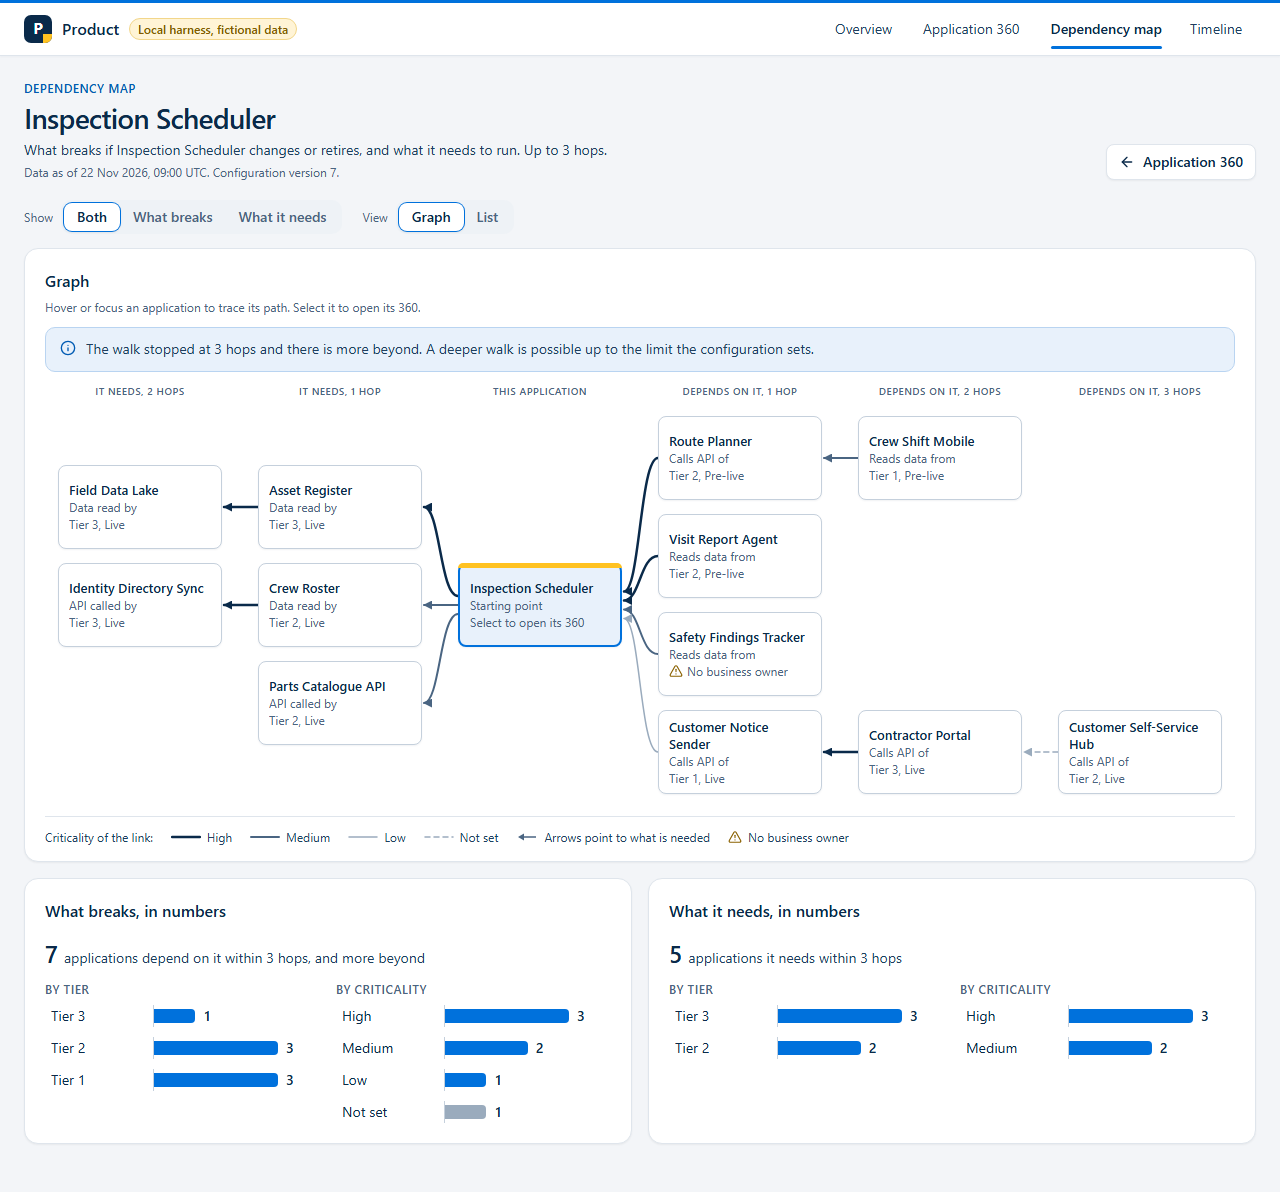
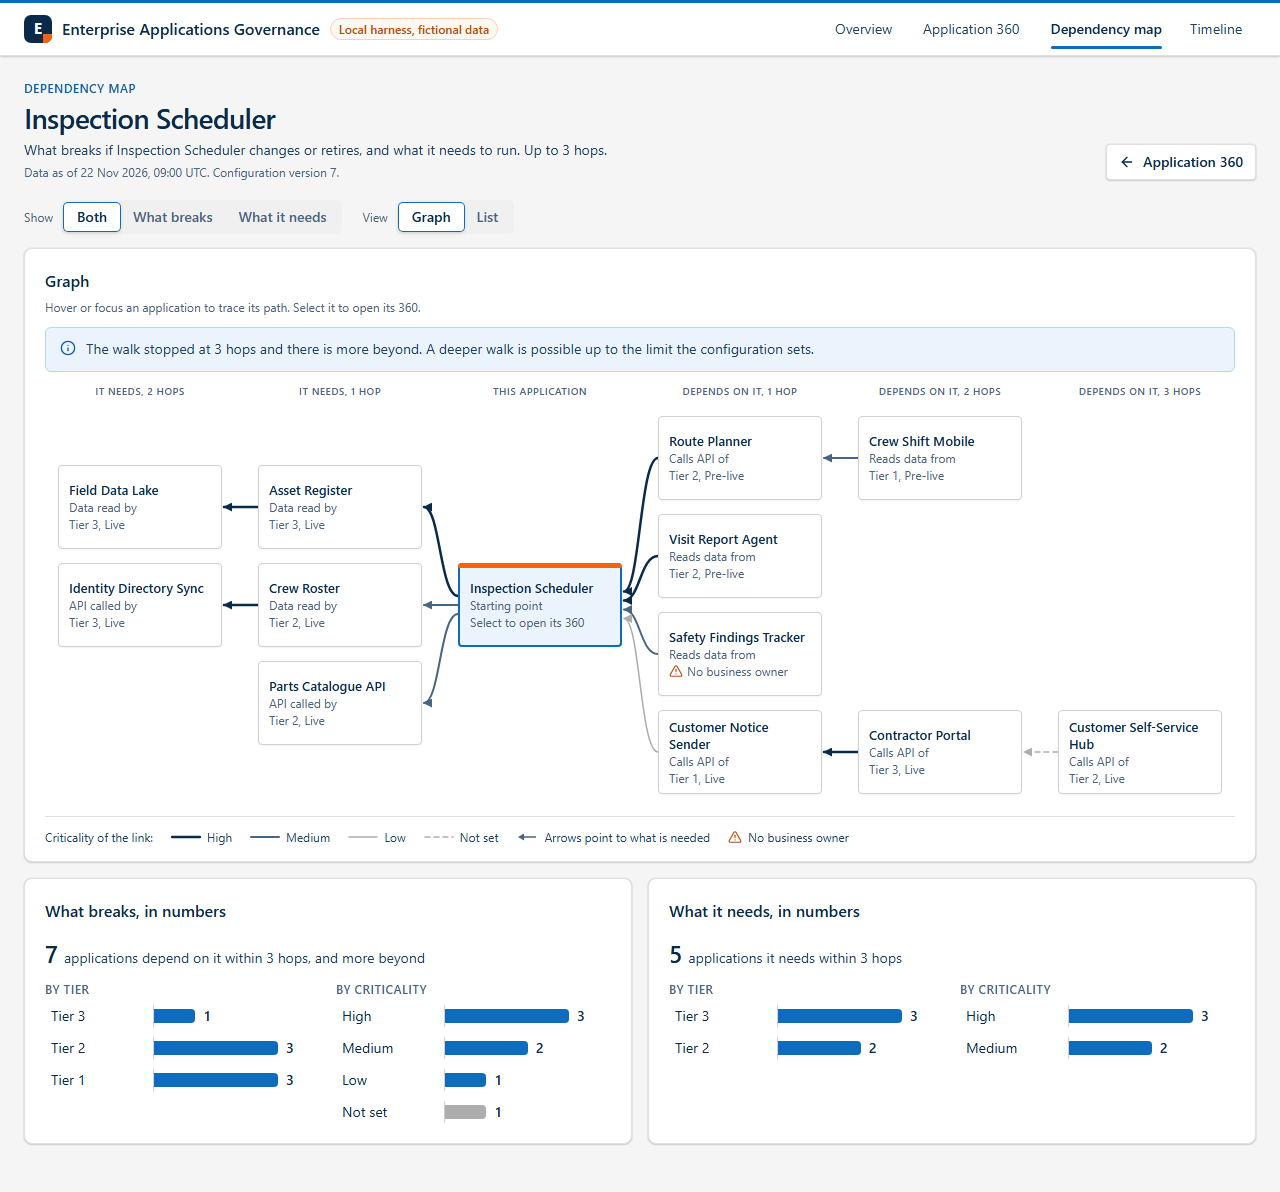
Fluent 2 theme (D-35) and the product name in the header
The theme tokens follow Fluent 2: 4 px corners on controls and 8 px on cards, layered
shadows, neutral grays, brand blue 0F6CBD, Fluent status colors and orange for
attention, with navy text, light only. The chart colors follow. The header and page
titles show Enterprise Applications Governance. Accessibility check and screenshots
pass at 1280 px and 390 px. Decision record D-35; D-32 amended.

diff --git a/src/ui/harness/src/styles/globals.css b/src/ui/harness/src/styles/globals.css
@@ -1,6 +1,7 @@
-/* The Academy palette as shadcn/ui theme tokens. Light only: there is no dark theme and no theme switch, on purpose
-   (D-18). Navy 0A2A4A for text and lines, blue 0071DC for brand, gold FFC221 as the accent. Fills: white, light blue
-   E8F1FB, light gold FFF4D6, light gray F3F5F8 for the page.
+/* The theme tokens: Microsoft's Fluent 2 shape and colors on shadcn/ui (D-35). Light only: there is no dark theme and no
+   theme switch, on purpose (D-18). Corners 2, 4, 6 and 8 px (Fluent's small to extra large), Fluent's layered shadows
+   and neutral grays, Microsoft brand blue 0F6CBD, Fluent's status colors, orange F7630C for attention. Text stays navy
+   0A2A4A (light only, no black). The product keeps its own name and mark: it is not a Microsoft product.
    The CSS is static (built by Tailwind at build time), so the page needs no inline styles from a runtime. */
 @import "tailwindcss";
 @import "tw-animate-css";
@@ -20,68 +21,75 @@
   color-scheme: light;
   --radius: 0.625rem;
 
-  --background: #f3f5f8;
+  --background: #f5f5f5;
   --foreground: #0a2a4a;
   --card: #ffffff;
   --card-foreground: #0a2a4a;
   --popover: #ffffff;
   --popover-foreground: #0a2a4a;
-  --primary: #0071dc;
+  --primary: #0f6cbd;
   --primary-foreground: #ffffff;
-  --secondary: #e8f1fb;
+  --secondary: #ebf3fc;
   --secondary-foreground: #0a2a4a;
-  --muted: #eef2f6;
+  --muted: #f0f0f0;
   --muted-foreground: #4a6582;
-  --accent: #e8f1fb;
+  --accent: #ebf3fc;
   --accent-foreground: #0a2a4a;
   --destructive: #b10e1c;
-  --border: #dfe5ec;
-  --input: #c5d0dc;
-  --ring: #0071dc;
+  --border: #e0e0e0;
+  --input: #d1d1d1;
+  --ring: #0f6cbd;
 
-  /* Academy extras */
+  /* Product extras: navy text shades, brand dark, attention (orange in Fluent 2, the 'gold' tokens), lines */
   --navy: #0a2a4a;
   --navy-2: #1f3f5f;
   --navy-3: #4a6582;
   --navy-4: #6a8199;
-  --brand-dark: #005bb3;
-  --gold: #ffc221;
-  --gold-strong: #8a6100;
-  --gold-soft: #fff4d6;
-  --line: #dfe5ec;
-  --line-strong: #c5d0dc;
-  --bar-muted: #9aabbd;
+  --brand-dark: #115ea3;
+  --gold: #f7630c;
+  --gold-strong: #bc4b09;
+  --gold-soft: #fff9f5;
+  --line: #e0e0e0;
+  --line-strong: #d1d1d1;
+  --bar-muted: #adadad;
 
   /* Status tones. Each text color on its soft fill passes WCAG AA (4.5:1). Status is never shown by color alone. */
-  --success: #0e700e;
-  --success-soft: #e7f4e4;
-  --success-line: #b7dbb0;
-  --warning: #835c00;
-  --warning-soft: #fff4d6;
-  --warning-line: #f2d68a;
+  --success: #107c10;
+  --success-soft: #f1faf1;
+  --success-line: #9fd89f;
+  --warning: #bc4b09;
+  --warning-soft: #fff9f5;
+  --warning-line: #fdcfb4;
   --danger: #b10e1c;
-  --danger-soft: #fdecec;
-  --danger-line: #f3b9be;
-  --info: #005bb3;
-  --info-soft: #e8f1fb;
-  --info-line: #b9d4f1;
-  --subtle-soft: #eef2f6;
-  --subtle-line: #dfe5ec;
+  --danger-soft: #fdf3f4;
+  --danger-line: #eeacb2;
+  --info: #115ea3;
+  --info-soft: #ebf3fc;
+  --info-line: #b4d6fa;
+  --subtle-soft: #f5f5f5;
+  --subtle-line: #e0e0e0;
 
-  --chart-1: #0071dc;
-  --chart-2: #ffc221;
+  --chart-1: #0f6cbd;
+  --chart-2: #f7630c;
   --chart-3: #0a2a4a;
-  --chart-4: #6aa8ec;
-  --chart-5: #9aabbd;
+  --chart-4: #62abf5;
+  --chart-5: #adadad;
 }
 
 @theme inline {
   --font-sans: 'Segoe UI', 'Segoe UI Web (West European)', -apple-system, BlinkMacSystemFont, Roboto, 'Helvetica Neue', sans-serif;
 
-  --radius-sm: calc(var(--radius) - 4px);
-  --radius-md: calc(var(--radius) - 2px);
-  --radius-lg: var(--radius);
-  --radius-xl: calc(var(--radius) + 4px);
+  /* Fluent 2 corner scale: small 2 px, medium 4 px (controls, badges), large 6 px, extra large 8 px (cards). */
+  --radius-sm: 2px;
+  --radius-md: 4px;
+  --radius-lg: 6px;
+  --radius-xl: 8px;
+
+  /* Fluent 2 layered shadows (shadow2, shadow4, shadow8, shadow16). */
+  --shadow-xs: 0 0 2px rgba(0, 0, 0, 0.12), 0 1px 2px rgba(0, 0, 0, 0.14);
+  --shadow-sm: 0 0 2px rgba(0, 0, 0, 0.12), 0 2px 4px rgba(0, 0, 0, 0.14);
+  --shadow-md: 0 0 2px rgba(0, 0, 0, 0.12), 0 4px 8px rgba(0, 0, 0, 0.14);
+  --shadow-lg: 0 0 2px rgba(0, 0, 0, 0.12), 0 8px 16px rgba(0, 0, 0, 0.14);
 
   --color-background: var(--background);
   --color-foreground: var(--foreground);

diff --git a/src/ui/harness/src/app/AppShell.tsx b/src/ui/harness/src/app/AppShell.tsx
@@ -148,7 +148,7 @@ function SignedIn({ auth, api, base, demo }: { auth: AppAuth; api: ApiClient; ba
 
   // The page title, and focus on the new page for keyboard and screen reader users (not on the first load).
   useEffect(() => {
-    document.title = `${routeTitle(route)} | Product`;
+    document.title = `${routeTitle(route)} | Enterprise Applications Governance`;
     const previous = shownLocation.current;
     shownLocation.current = locationKey;
     if (previous !== null && previous !== locationKey) mainRef.current?.focus({ preventScroll: true });
@@ -194,29 +194,29 @@ function SignedIn({ auth, api, base, demo }: { auth: AppAuth; api: ApiClient; ba
         >
           Skip to content
         </a>
-        <header className="sticky top-0 z-10 border-b border-line bg-card shadow-[0_1px_2px_rgba(10,42,74,0.04)]" ref={headerRef}>
+        <header className="sticky top-0 z-10 border-b border-line bg-card shadow-xs" ref={headerRef}>
           <div className="h-[3px] bg-primary" />
           <div className={cn(frame, 'flex min-h-[52px] items-center gap-x-5 narrow:min-h-0 narrow:flex-wrap narrow:gap-x-3 narrow:gap-y-1 narrow:pt-2')}>
             <a
-              className="flex shrink-0 items-center gap-x-2.5 rounded-md text-navy no-underline focus-visible:outline-2 focus-visible:outline-offset-2 focus-visible:outline-ring"
+              className="flex min-w-0 items-center gap-x-2.5 rounded-md text-navy no-underline focus-visible:outline-2 focus-visible:outline-offset-2 focus-visible:outline-ring"
               href={appHref({ page: 'overview' }, base)}
-              aria-label="Product, portfolio overview"
+              aria-label="Enterprise Applications Governance, portfolio overview"
             >
               <span
                 className="relative grid size-7 shrink-0 place-items-center overflow-hidden rounded-[7px] bg-navy text-[15px] font-bold text-white after:absolute after:right-0 after:bottom-0 after:size-[9px] after:bg-gold"
                 aria-hidden
               >
-                P
+                E
               </span>
-              <span className="text-base font-semibold text-navy">Product</span>
+              <span className="truncate text-base font-semibold text-navy narrow:text-sm">Enterprise Applications Governance</span>
             </a>
             {demo && (
-              <Badge variant="warning" className="rounded-full px-2 font-medium">
+              <Badge variant="warning" className="shrink-0 rounded-full px-2 font-medium">
                 {narrow ? 'Demo data' : 'Demo, fictional data'}
               </Badge>
             )}
             {auth.mode === 'development' && (
-              <Badge variant="warning" className="rounded-full px-2 font-medium">
+              <Badge variant="warning" className="shrink-0 rounded-full px-2 font-medium">
                 {narrow ? 'Development sign-in' : 'Development sign-in, fictional persona'}
               </Badge>
             )}

diff --git a/src/ui/harness/src/pages/Timeline.tsx b/src/ui/harness/src/pages/Timeline.tsx
@@ -26,13 +26,13 @@ const windowTone = {
   authorized: 'bg-primary',
   pending: 'border-2 border-primary bg-card',
   draft: 'border-2 border-bar-muted bg-card',
-  closed: 'bg-[#a9c1dc]',
+  closed: 'bg-[#b4d6fa]',
 };
-const emergencyRing = 'ring-2 ring-[#c4314b]';
+const emergencyRing = 'ring-2 ring-[#c50f1f]';
 const markerTone = {
   succeeded: 'bg-navy',
-  partly: 'bg-[#c98a00]',
-  failed: 'bg-[#c4314b]',
+  partly: 'bg-[#f7630c]',
+  failed: 'bg-[#c50f1f]',
   other: 'bg-bar-muted',
 };
 const flaggedRing = 'ring-3 ring-gold';
@@ -212,7 +212,7 @@ function Chart(props: { changes: ScheduledChange[]; deployments: DeploymentItem[
     const group = lane.key === 'none' ? 'No target yet' : props.stages.label(lane.stageKey);
     if (group !== lastGroup) {
       rows.push(
-        <div key={`g-${group}`} className="col-span-full border-b border-line bg-[#fafbfd] pt-1.5 pb-1 pl-0.5 text-[10px] font-semibold tracking-[0.06em] text-navy-3 uppercase">
+        <div key={`g-${group}`} className="col-span-full border-b border-line bg-[#fafafa] pt-1.5 pb-1 pl-0.5 text-[10px] font-semibold tracking-[0.06em] text-navy-3 uppercase">
           {group}
         </div>,
       );
@@ -229,8 +229,8 @@ function Chart(props: { changes: ScheduledChange[]; deployments: DeploymentItem[
     );
     rows.push(
       <div key={`r-${lane.key}`} className="relative h-[50px] border-b border-line">
-        <div className="absolute inset-y-0 left-0 bg-[#f5f7fa]" style={{ width: `${todayPct}%` }} />
-        {ticks.map(t => <div key={t} className="absolute inset-y-0 w-px bg-[#e7ecf2]" style={{ left: `${dayPct(t)}%` }} />)}
+        <div className="absolute inset-y-0 left-0 bg-[#f5f5f5]" style={{ width: `${todayPct}%` }} />
+        {ticks.map(t => <div key={t} className="absolute inset-y-0 w-px bg-[#ebebeb]" style={{ left: `${dayPct(t)}%` }} />)}
         <div className="absolute inset-y-0 z-[1] -ml-px w-0.5 bg-gold" style={{ left: `${todayPct}%` }} />
         {laneChanges.map((c, i) => {
           const x1 = pct(c.windowStart!);

diff --git a/src/ui/harness/src/App.tsx b/src/ui/harness/src/App.tsx
@@ -90,18 +90,21 @@ export function App() {
   return (
     <ToolClientContext.Provider value={fixtureClient}>
       <HostContext.Provider value={host}>
-        <div className="sticky top-0 z-10 border-b border-line bg-card shadow-[0_1px_2px_rgba(10,42,74,0.04)]">
+        <div className="sticky top-0 z-10 border-b border-line bg-card shadow-xs">
           <div className="h-[3px] bg-primary" />
           <div className="mx-auto flex min-h-[52px] max-w-[1280px] items-center gap-x-6 px-6 narrow:min-h-0 narrow:flex-wrap narrow:gap-x-3 narrow:gap-y-1 narrow:px-4 narrow:pt-2">
-            <div className="flex shrink-0 items-center gap-x-2.5">
+            <div className="flex min-w-0 items-center gap-x-2.5">
               <span
                 className="relative grid size-7 shrink-0 place-items-center overflow-hidden rounded-[7px] bg-navy text-[15px] font-bold text-white after:absolute after:right-0 after:bottom-0 after:size-[9px] after:bg-gold"
                 aria-hidden
               >
-                P
+                E
               </span>
-              <span className="text-base font-semibold text-navy">Product</span>
-              <Badge variant="warning" className="rounded-full px-2 font-medium">Local harness, fictional data</Badge>
+              <span className="truncate text-base font-semibold text-navy narrow:text-sm">Enterprise Applications Governance</span>
+              <Badge variant="warning" className="shrink-0 rounded-full px-2 font-medium">
+                <span className="narrow:hidden">Local harness, fictional data</span>
+                <span className="hidden narrow:inline">Fictional data</span>
+              </Badge>
             </div>
             <nav className="ml-auto narrow:-ml-2.5 narrow:w-[calc(100%+20px)]" aria-label="Pages">
               <ul className="m-0 flex list-none gap-1 p-0 narrow:gap-0">

diff --git a/src/ui/harness/src/components/blocks.tsx b/src/ui/harness/src/components/blocks.tsx
@@ -1,5 +1,5 @@
 // Shared building blocks for the four pages: panel, status badge, KPI tile, bar list, page header, links and text
-// helpers. Built from the shadcn/ui primitives in ./ui and Tailwind classes on the Academy tokens (styles/globals.css).
+// helpers. Built from the shadcn/ui primitives in ./ui and Tailwind classes on the theme tokens (styles/globals.css).
 import { CircleAlert, CircleCheck, Clock, EyeOff, Info, TriangleAlert } from 'lucide-react';
 import { useSyncExternalStore, type ComponentProps, type CSSProperties, type ReactElement, type ReactNode } from 'react';
 import type { CouldNotReadItem, Envelope, Failure, StatusValue, Success, Warning } from '../data/contracts';
@@ -225,7 +225,7 @@ export function KpiTile(props: { label: string; value: number | null; caption: s
       type="button"
       className={cn(
         'relative flex min-w-0 cursor-pointer flex-col gap-0.5 overflow-hidden rounded-xl border bg-card py-3.5 pr-4 pl-[18px] text-left text-card-foreground shadow-xs transition-colors',
-        'hover:border-line-strong hover:bg-[#fbfcfe] focus-visible:outline-2 focus-visible:outline-offset-2 focus-visible:outline-ring',
+        'hover:border-line-strong hover:bg-[#fafafa] focus-visible:outline-2 focus-visible:outline-offset-2 focus-visible:outline-ring',
         props.attention && 'before:absolute before:inset-y-0 before:left-0 before:w-1 before:bg-gold',
         props.className,
       )}

diff --git a/src/ui/harness/src/theme.ts b/src/ui/harness/src/theme.ts
@@ -1,20 +1,20 @@
-// The Academy palette for code that needs a color as a value (SVG fills and strokes in the dependency map and the
-// timeline chart). Everything else uses the Tailwind tokens in styles/globals.css, which hold the same colors.
+// The theme colors (Fluent 2, D-35) for code that needs a color as a value (SVG fills and strokes in the dependency map and
+// the timeline chart). Everything else uses the Tailwind tokens in styles/globals.css, which hold the same colors.
 // Light only: there is no dark theme, on purpose (D-18).
 export const palette = {
   navy: '#0a2a4a',
   navy2: '#1f3f5f',
   navy3: '#4a6582',
   navy4: '#6a8199',
-  blue: '#0071dc',
-  blueDark: '#005bb3',
-  gold: '#ffc221',
-  goldDark: '#8a6100',
+  blue: '#0f6cbd',
+  blueDark: '#115ea3',
+  gold: '#f7630c',
+  goldDark: '#bc4b09',
   white: '#ffffff',
-  lightBlue: '#e8f1fb',
-  lightGold: '#fff4d6',
-  lightGrey: '#f3f5f8',
-  line: '#dfe5ec',
-  lineStrong: '#c5d0dc',
-  muted: '#9aabbd',
+  lightBlue: '#ebf3fc',
+  lightGold: '#fff9f5',
+  lightGrey: '#f5f5f5',
+  line: '#e0e0e0',
+  lineStrong: '#d1d1d1',
+  muted: '#adadad',
 } as const;

diff --git a/src/ui/harness/src/pages/Application360.tsx b/src/ui/harness/src/pages/Application360.tsx
@@ -328,7 +328,7 @@ function DependencySummary({ card, mapHref }: { card: ApplicationCard; mapHref: 
     />
   );
   const statClass =
-    'flex cursor-pointer flex-col rounded-lg bg-secondary px-3 py-2.5 text-left text-inherit no-underline transition-colors hover:bg-[#dcebfa] focus-visible:outline-2 focus-visible:outline-offset-2 focus-visible:outline-ring';
+    'flex cursor-pointer flex-col rounded-lg bg-secondary px-3 py-2.5 text-left text-inherit no-underline transition-colors hover:bg-[#cfe4fa] focus-visible:outline-2 focus-visible:outline-offset-2 focus-visible:outline-ring';
   return (
     <>
       <div className="grid grid-cols-2 gap-2.5">
@@ -366,7 +366,7 @@ function initials(name: string): string {
   return (first + last).toUpperCase();
 }
 
-// A stable tint per name, so the same person keeps the same color on every render. Academy tints only; the color
+// A stable tint per name, so the same person keeps the same color on every render. Theme tints only; the color
 // carries no meaning.
 const avatarTints = [
   'bg-info-soft text-info',

diff --git a/src/ui/harness/src/pages/DependencyMap.tsx b/src/ui/harness/src/pages/DependencyMap.tsx
@@ -301,7 +301,7 @@ function GraphBody(props: { show: Show; rootId: string; rootName: string; left: 
                 href={href}
                 className={cn(
                   'absolute flex flex-col justify-center gap-y-px rounded-md border border-line-strong bg-card px-2.5 py-1.5 text-navy no-underline shadow-[0_1px_2px_rgba(10,42,74,0.06)] transition-[opacity,border-color,box-shadow] duration-120',
-                  'hover:border-primary hover:shadow-[0_2px_6px_rgba(10,42,74,0.12)] focus-visible:outline-2 focus-visible:outline-offset-2 focus-visible:outline-ring',
+                  'hover:border-primary hover:shadow-md focus-visible:outline-2 focus-visible:outline-offset-2 focus-visible:outline-ring',
                   // The application itself: light blue with a gold bar along the top.
                   isRoot && 'border-2 border-primary bg-secondary before:absolute before:-inset-x-0.5 before:-top-0.5 before:h-[5px] before:rounded-t-md before:bg-gold',
                   focus !== null && !lit.has(p.key) && 'opacity-38',

diff --git a/src/ui/harness/src/app/SignIn.tsx b/src/ui/harness/src/app/SignIn.tsx
@@ -30,7 +30,7 @@ function Problem({ text }: { text: string | null }) {
 
 export function EntraSignIn({ auth }: { auth: MsalAuth }) {
   const [busy, setBusy] = useState(false);
-  useEffect(() => { document.title = 'Sign in | Product'; }, []);
+  useEffect(() => { document.title = 'Sign in | Enterprise Applications Governance'; }, []);
   return (
     <main className={wrap} id="main">
       <Problem text={auth.problem()} />
@@ -56,7 +56,7 @@ export function DevSignIn({ auth }: { auth: DevAuth }) {
   const legendId = useId();
   const groupName = useId();
   const [choice, setChoice] = useState<string>(auth.personas[0]?.name ?? '');
-  useEffect(() => { document.title = 'Development sign-in | Product'; }, []);
+  useEffect(() => { document.title = 'Development sign-in | Enterprise Applications Governance'; }, []);
   return (
     <main className={wrap} id="main">
       <Problem text={auth.problem()} />

diff --git a/src/ui/harness/vite.config.ts b/src/ui/harness/vite.config.ts
@@ -30,7 +30,7 @@ function entryFor(app: boolean): Plugin {
         // a same-origin file (Vite copies it into assets/ with a content hash).
         return html
           .replace('./src/main.tsx', './src/app/main.tsx')
-          .replace('<title>Product page harness</title>', '<title>Product</title>')
+          .replace('<title>Enterprise Applications Governance: page harness</title>', '<title>Enterprise Applications Governance</title>')
           .replace('<link rel="icon" href="data:," />', '<link rel="icon" type="image/svg+xml" href="./src/app/favicon.svg" />');
       },
     },

diff --git a/src/ui/harness/index.html b/src/ui/harness/index.html
@@ -5,7 +5,7 @@
     <meta name="viewport" content="width=device-width, initial-scale=1" />
     <meta name="color-scheme" content="light" />
     <link rel="icon" href="data:," />
-    <title>Product page harness</title>
+    <title>Enterprise Applications Governance: page harness</title>
   </head>
   <body>
     <div id="root"></div>

diff --git a/docs/build-log/README.md b/docs/build-log/README.md
@@ -102,6 +102,7 @@ AI sessions drafted, built and checked the work. The author made every decision.
 | Monday 5:06 AM | Commit `cffb7da` adds the web app with its four read-only pages on the product's own API, the approval runner's routes with a Power Automate flow template, and directory reads on behalf of the signed-in admin, tested against recorded, fictional responses. It runs end to end on one machine over SQLite with a development identity. Tests: engine and MCP core 1,782 of 1,782, Azure host 141 of 141, Azure stores 102 passed and 48 skipped (39 Azure SQL cases that need a test database, and 9 cases that only the row stores support), web app 49 of 49. Nothing is deployed. |
 | Monday evening | [D-32][dec]: the author asks whether the interface was designed and what it is built on, and chooses shadcn/ui if nothing is better. The four pages move from Fluent UI to shadcn/ui (React 19, Radix primitives, Tailwind CSS 4, lucide icons) on the same Academy palette, light only. Three AI agents port the pages and the shell in parallel on a shared foundation. The type check, the 49 unit tests, the package check, the accessibility check at 1280 px and 390 px and the screenshots pass. |
 | Monday evening | [D-33][dec]: to see the product in a sandbox subscription before the bootstrap route exists, the author chooses a demo install now and the real bootstrap next. The web app gets a demo switch and badge, and the seed command an environment named Demo. The local checks move into Linux under WSL2, where every check passes. |
+| Monday evening | [D-35][dec]: the author asks whether the pages can look close to Microsoft's own screens. Three looks of the same pages are rendered side by side, and the author chooses Fluent 2's shape and colors, with navy text. The header now shows the product's name. The accessibility check passes on every page at both widths. |
 
 ## 2. What the design produced
 
@@ -113,7 +114,7 @@ AI sessions drafted, built and checked the work. The author made every decision.
 | Step 2 logical design, seven documents | Glossary and entities, the configuration model, the logical data model, 11 processes, the MCP tool surface, the engine and the security model. Written for both possible data stores, so the platform choice did not mean redoing it. |
 | Step 2 working defaults | The 16 internal conflicts settled, the 17 questions adopted as working defaults, and the 6 open design questions. |
 | Technical reference for readers | The overview, the Microsoft fit, and the architecture pages: configuration and presets, the data model, one page per process, the MCP tools, sign-in and security, the rules engine and the screens. |
-| Decision records | One per decision, D-01 to D-33, each with its context, options, choice and reasons. D-21 is not published. |
+| Decision records | One per decision, D-01 to D-35, each with its context, options, choice and reasons. D-21 and D-34 are not published. |
 | Research notes | 24 notes at the first commit (8:17 PM), on Microsoft's tools, MCP and Copilot options, a Microsoft news sweep and a foundation study. Two more followed that evening, on governing AI development and the playbook outline. They stay private as working files. Public documents cite Microsoft Learn directly. |
 
 ### 2.2 Diagrams
